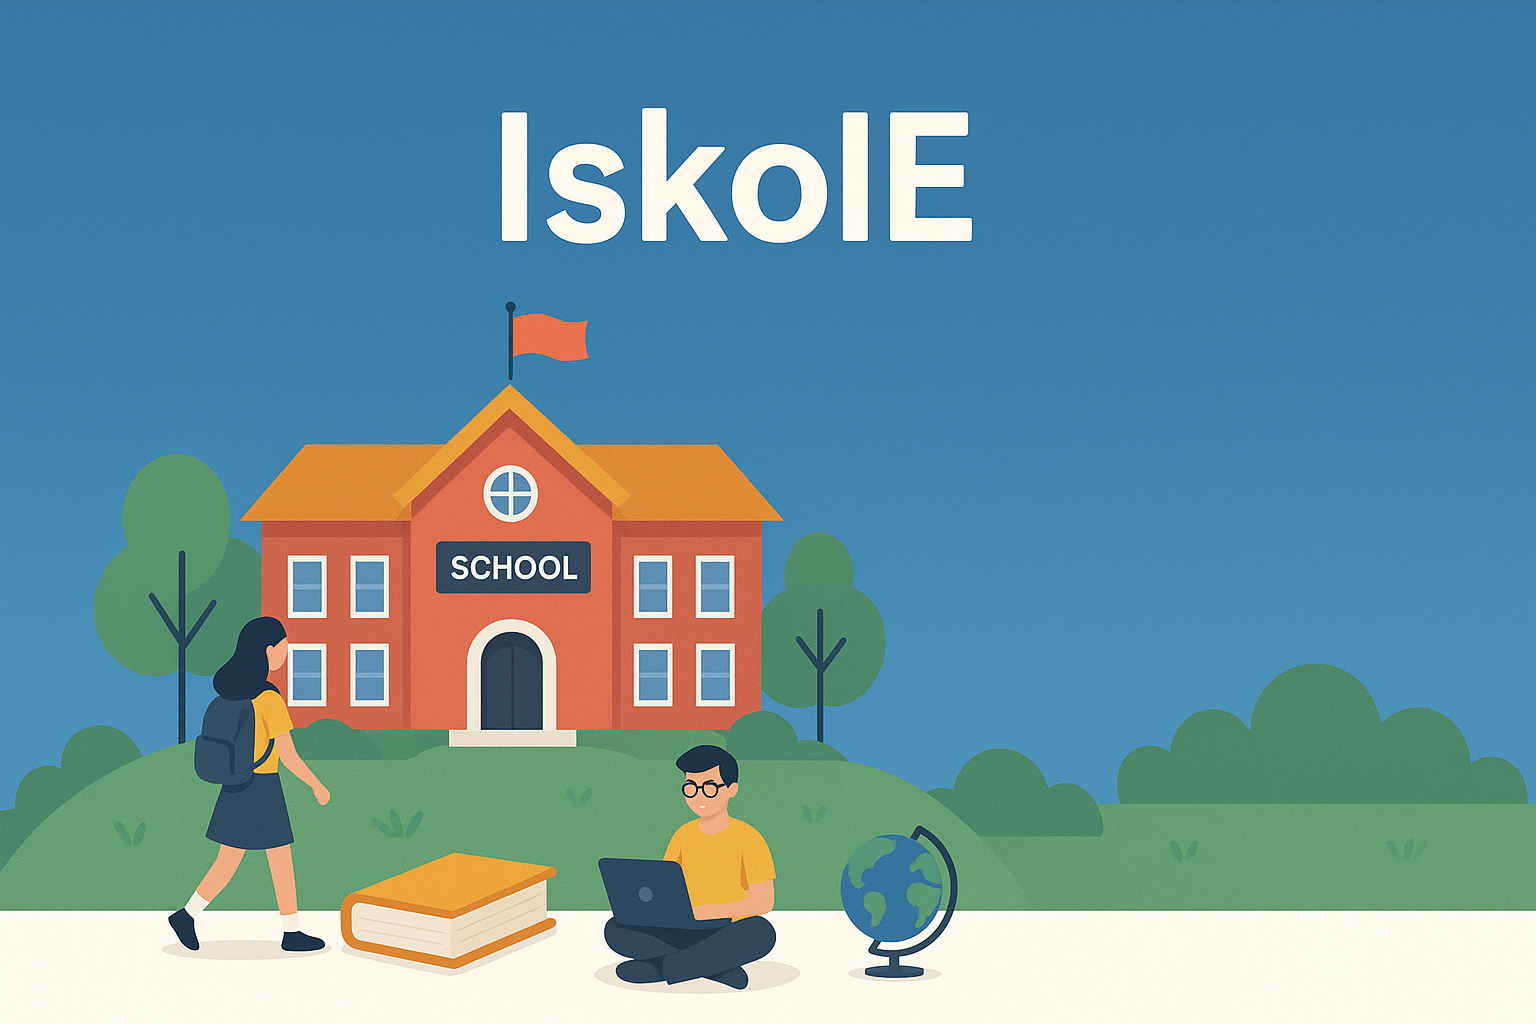
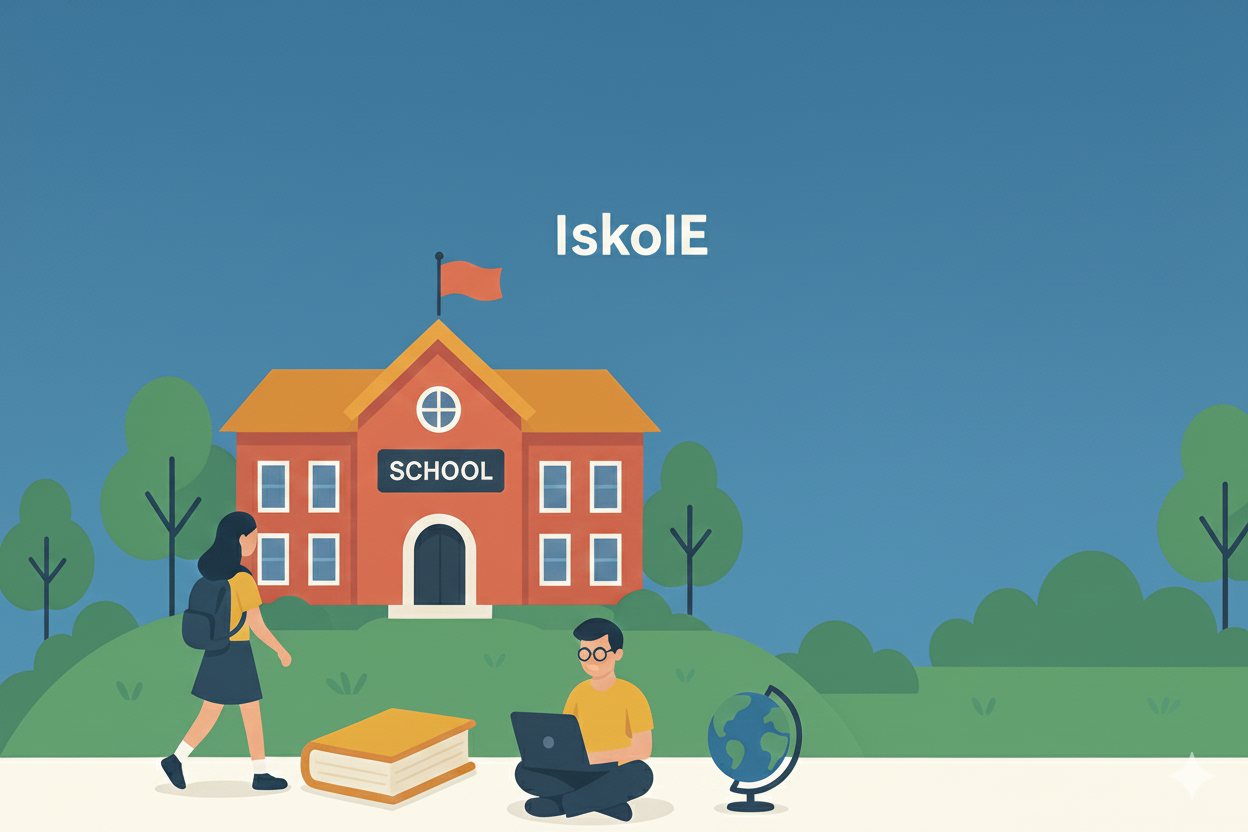
set bg and login window loft

Changed region(s): [[0.0, 0.2812, 1.0, 1.0], [0.3125, 0.0938, 0.6562, 0.3125]]

diff --git a/public/css/login/login.css b/public/css/login/login.css
@@ -6,7 +6,8 @@ body {
     sans-serif;
   display: flex;
   align-items: center;
-  justify-content: center;
+  justify-content: flex-end;
+  padding-right: 10%;
   position: relative;
   overflow: hidden;
 }
@@ -23,7 +24,7 @@ body::before {
   background-size: cover;
   background-position: center;
   background-repeat: no-repeat;
-  filter: blur(12px) brightness(0.5);
+  filter: blur(5px) brightness(0.5);
   transform: scale(1.1);
   z-index: -2;
 }
@@ -306,6 +307,11 @@ button[type="submit"]:disabled {
 
 /* Responsive design */
 @media (max-width: 768px) {
+  body {
+    justify-content: center;
+    padding-right: 0;
+  }
+
   .login-container {
     width: 90%;
     max-width: 400px;
@@ -331,6 +337,11 @@ button[type="submit"]:disabled {
 }
 
 @media (max-width: 480px) {
+  body {
+    justify-content: center;
+    padding-right: 0;
+  }
+
   .login-container {
     width: 90%;
     padding: 35px 25px;
